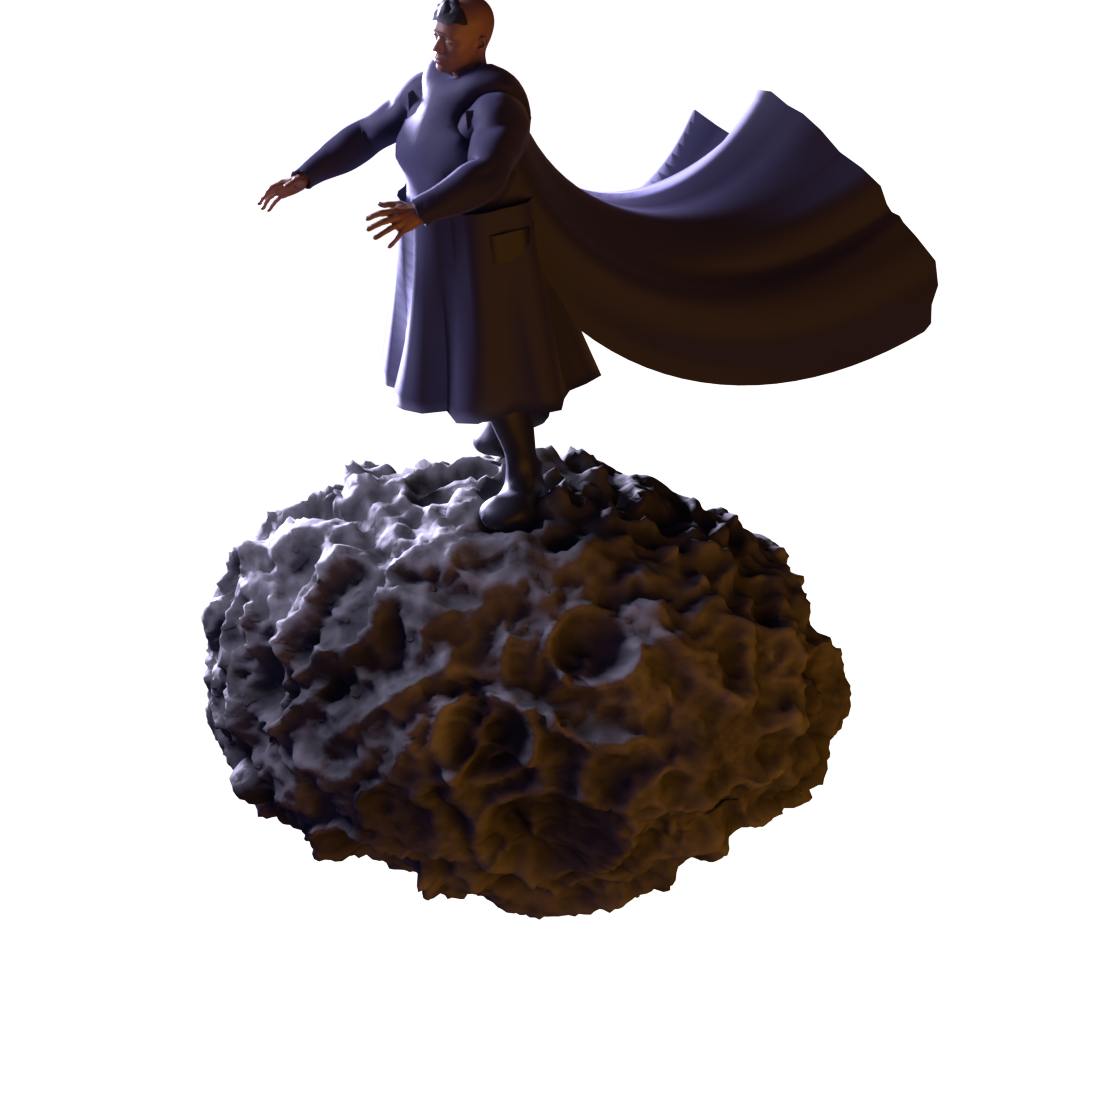
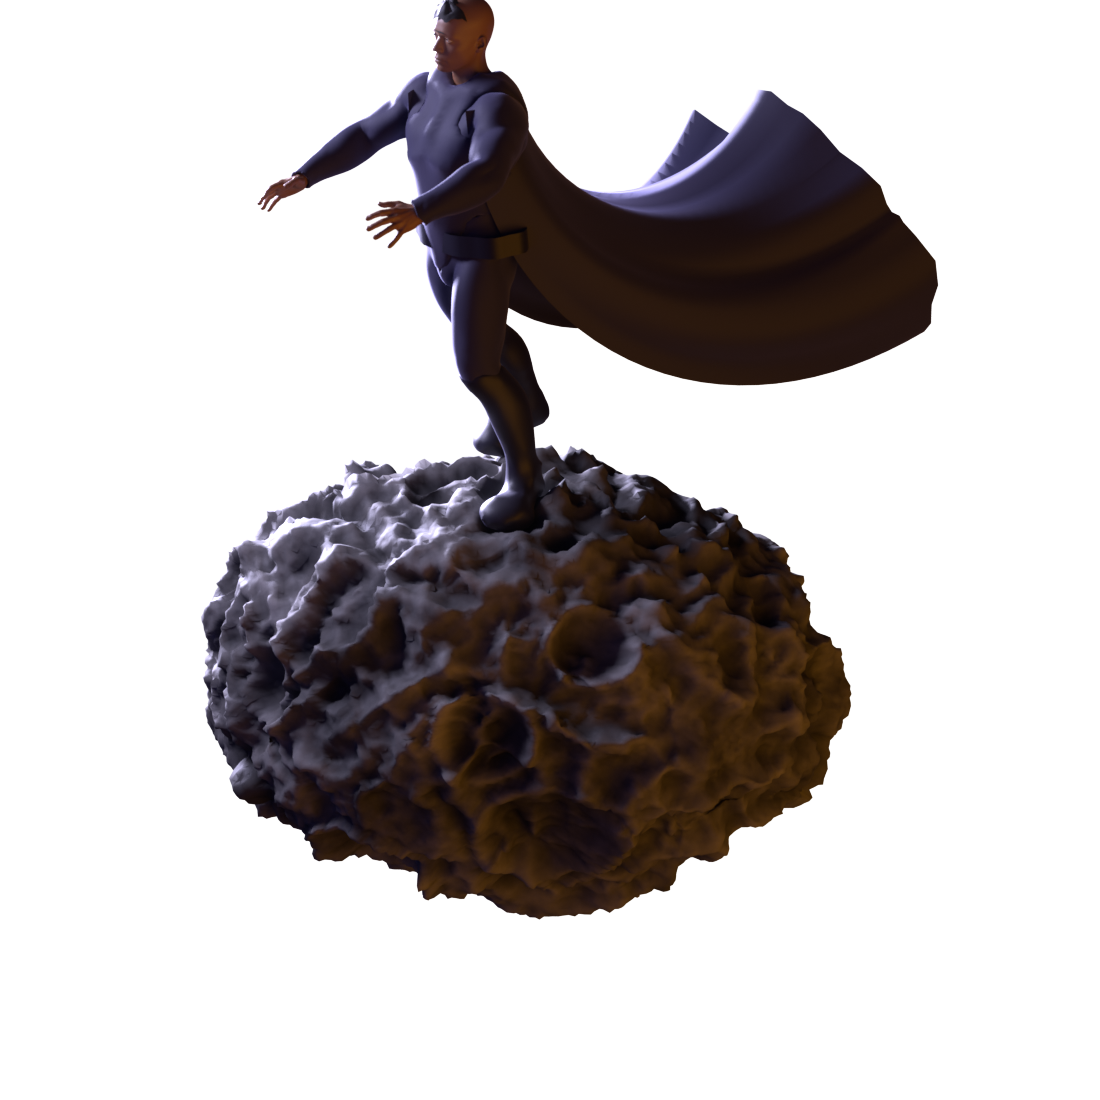
Fix the frock: trousers and a fitted top, no swept outerwear
The waist-to-knee tube read as a dress, which it structurally was. Swept
outerwear then failed twice more before being dropped entirely:

- Open and narrow, the coat sat inside the torso and the posed legs, so only
  its two front edges emerged and it read as a pair of straps.
- Widened to clear the body, the same panels read as flat planks hanging at
  the sides.

The body-cut garments already make a complete outfit, so the outfit is now
jacket, sleeves, trousers, boots and belt, with the cape supplying the
movement. Trousers come from the thigh and shin vertex groups by the same
cut-from-the-body route as the sleeves.

Also: slimmed the voxel remesh on the jacket, which had been padding the
figure into looking heavy; cropped the hair shorter with a broken hairline,
since a constant polar reach reads as a swim cap; and pulled the belt in so
it stops protruding front and back as a boxy slab.

diff --git a/scripts/blender/asteroid.py b/scripts/blender/asteroid.py
@@ -417,35 +417,37 @@ def build_cape(mat, H):
     return _mesh_from_rings("Cape", rings, mat, closed=False, thickness=H * 0.008)
 
 
-def build_skirt(mat, H):
-    """Short closed robe over the torso and hips, ending mid-thigh.
+def build_coat(mat, H):
+    """Long coat, open down the front, hanging straight from the shoulders.
 
-    This is the part that answers "where are the clothes" — the cape reads from
-    behind, but from the front the figure needs something on it. Capped at the
-    hem so the low camera does not look up into a hollow shell.
+    The previous garment was a closed tube from the waist, flaring to below the
+    knee — which is a skirt, and on this figure it read as a frock. Two things
+    make a coat instead: it is OPEN at the front, so the trousers and boots
+    show through the gap and the eye reads legs rather than a hem; and it drops
+    nearly straight instead of flaring, so the silhouette is a column, not a
+    bell. The flare is reserved for the last fifth, at the hem.
     """
-    RAD, VSEG = 32, 16
+    RAD, VSEG = 42, 28
+    TH0, TH1 = -0.30 * math.pi, 1.30 * math.pi     # opening centred on -Y
+
     rings = []
     for i in range(VSEG + 1):
         t = i / VSEG
-        z = 0.63 - (0.63 - 0.24) * t          # waist → below the knee
-        # Starts at the waist now rather than the shoulders: the jacket covers
-        # the torso, so this only has to be the skirt of the robe. As a
-        # full-length tube it left a slit up the front where it met the body.
-        r = 0.142 + 0.068 * t ** 1.6
+        z = 0.80 - (0.80 - 0.30) * t               # shoulders → below the knee
+        r = 0.190 + 0.052 * t ** 2.4               # column, not a bell
         ring = []
         for j in range(RAD):
-            th = 2 * math.pi * j / RAD
-            # two harmonics, growing downward — a single radius reads as a
-            # lampshade no matter how it is proportioned
-            fold = (math.sin(th * 8 + t * 1.9) * 0.019 * (0.25 + t)
-                    + math.sin(th * 15 - t * 3.1) * 0.008 * (0.2 + t))
+            th = TH0 + (TH1 - TH0) * j / (RAD - 1)
+            fold = (math.sin(th * 7 + t * 1.4) * 0.014 * (0.30 + t)
+                    + math.sin(th * 13 - t * 2.3) * 0.006 * (0.25 + t))
             rr = r + fold
-            x, y = math.cos(th) * rr, math.sin(th) * rr * 0.92
-            ring.append((x * H, y * H, z * H))
+            hem = math.sin(th * 4 + 0.6) * 0.018 * t ** 3
+            ring.append((math.cos(th) * rr * H,
+                         math.sin(th) * rr * 0.80 * H,
+                         (z + hem) * H))
         rings.append(ring)
-    return _mesh_from_rings("Skirt", rings, mat, closed=True, cap_last=True,
-                            thickness=H * 0.007)
+
+    return _mesh_from_rings("Coat", rings, mat, closed=False, thickness=H * 0.007)
 
 
 def build_hood(mat, H):
@@ -685,8 +687,8 @@ def build_hair(H, body, ctr, radius):
 
     RAD, VSEG = 40, 20
     cx, cy, cz = ctr.x, ctr.y, ctr.z
-    base_r = radius * 1.05                     # shrinkwrap pulls it back in
-    P_FRONT, P_BACK = 0.98, 1.42               # polar reach, forehead vs nape
+    base_r = radius * 1.02                     # shrinkwrap pulls it back in
+    P_FRONT, P_BACK = 0.86, 1.24               # polar reach, forehead vs nape
 
     rings = []
     for i in range(VSEG, -1, -1):
@@ -696,7 +698,9 @@ def build_hair(H, body, ctr, radius):
             th = 2 * math.pi * j / RAD
             # -sin(th) is +1 toward the face, -1 toward the back of the head
             front = 0.5 + 0.5 * (-math.sin(th))
-            p = u * (P_BACK - (P_BACK - P_FRONT) * front)
+            # a hairline that is a perfect band reads as a swim cap; break it
+            ragged = 0.055 * math.sin(th * 6 + 0.8) + 0.030 * math.sin(th * 13)
+            p = u * (P_BACK - (P_BACK - P_FRONT) * front + ragged)
             bulk = (0.0060 * math.sin(th * 5 + p * 3.1)
                     + 0.0040 * math.sin(th * 11 - p * 4.7)
                     + 0.0028 * math.sin(th * 19 + p * 6.2)
@@ -717,7 +721,7 @@ def build_hair(H, body, ctr, radius):
     tex.noise_scale = 0.035
     d = hair.modifiers.new("Bulk", "DISPLACE")
     d.texture = tex
-    d.strength = H * 0.010
+    d.strength = H * 0.007
     d.mid_level = 0.4
     bpy.context.view_layer.objects.active = hair
     bpy.ops.object.modifier_apply(modifier="Bulk")
@@ -837,14 +841,14 @@ def build_belt(H, mat):
     rings = []
     for i in range(VSEG + 1):
         t = i / VSEG
-        z = (0.585 - 0.055 * t) * H
+        z = (0.575 - 0.042 * t) * H
         ring = []
         for j in range(RAD):
             th = 2 * math.pi * j / RAD
-            r = (0.150 + 0.004 * math.sin(th * 9)) * H
-            ring.append((math.cos(th) * r, math.sin(th) * r * 0.74, z))
+            r = (0.139 + 0.004 * math.sin(th * 9)) * H
+            ring.append((math.cos(th) * r, math.sin(th) * r * 0.64, z))
         rings.append(ring)
-    return _mesh_from_rings("Belt", rings, mat, closed=True, thickness=H * 0.006)
+    return _mesh_from_rings("Belt", rings, mat, closed=True, thickness=H * 0.005)
 
 
 def build_brows(H, body, eye_locs):
@@ -1041,12 +1045,15 @@ def build_rider(mat, cloak_mat, height=RIDER_H):
     worn = [
         garment_from_groups("Jacket", body,
                             ("chest", "spine", "hips", "shoulder.L", "shoulder.R"),
-                            H, 0.026, cloth, thickness=0.030,
-                            relax=10, remesh=0.018),
+                            H, 0.015, cloth, thickness=0.020,
+                            relax=6, remesh=0.012),
         garment_from_groups("Sleeves", body,
                             ("upper_arm.L", "upper_arm.R",
                              "forearm.L", "forearm.R"),
-                            H, 0.010, cloth, relax=8),
+                            H, 0.008, cloth, relax=6),
+        garment_from_groups("Trousers", body,
+                            ("thigh.L", "thigh.R", "shin.L", "shin.R"),
+                            H, 0.008, cloth, relax=6),
         garment_from_groups("Boots", body,
                             ("shin.L", "shin.R", "foot.L", "foot.R"),
                             H, 0.013, leather, thickness=0.022,
@@ -1055,10 +1062,9 @@ def build_rider(mat, cloak_mat, height=RIDER_H):
     ]
     worn = [w for w in worn if w]
     cape = build_cape(cloak_mat, H)
-    tunic = build_skirt(cloak_mat, H)
 
     bpy.ops.object.select_all(action="DESELECT")
-    for ob in [body, cape, tunic, hair] + worn + brows:
+    for ob in [body, cape, hair] + worn + brows:
         ob.select_set(True)
     bpy.context.view_layer.objects.active = body
     bpy.ops.object.join()
